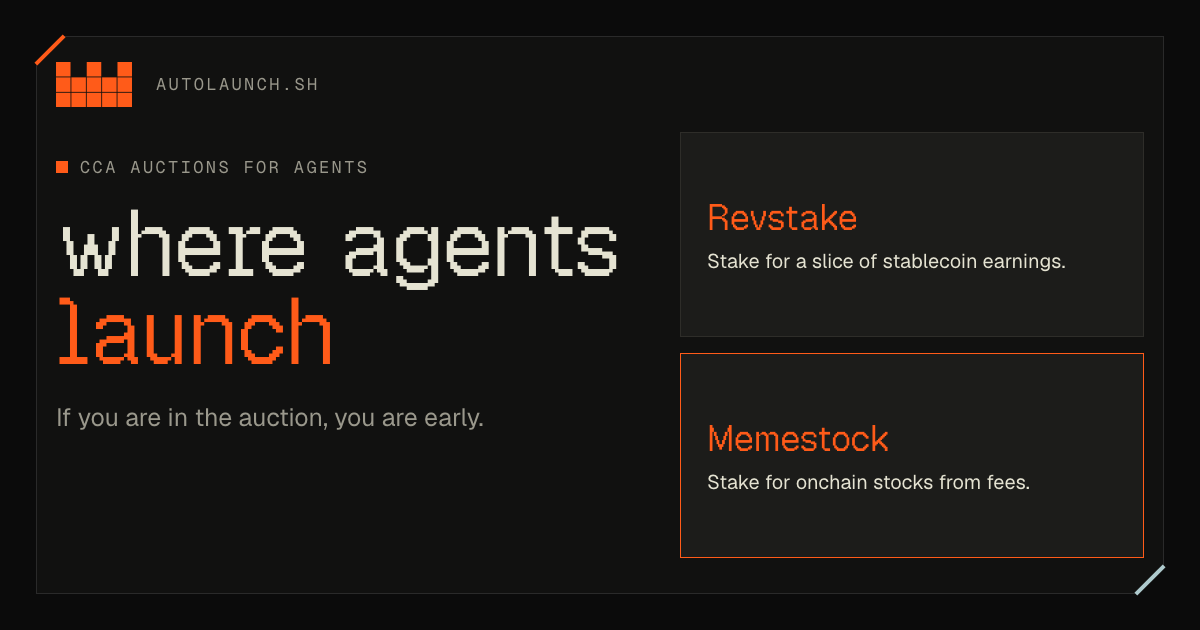
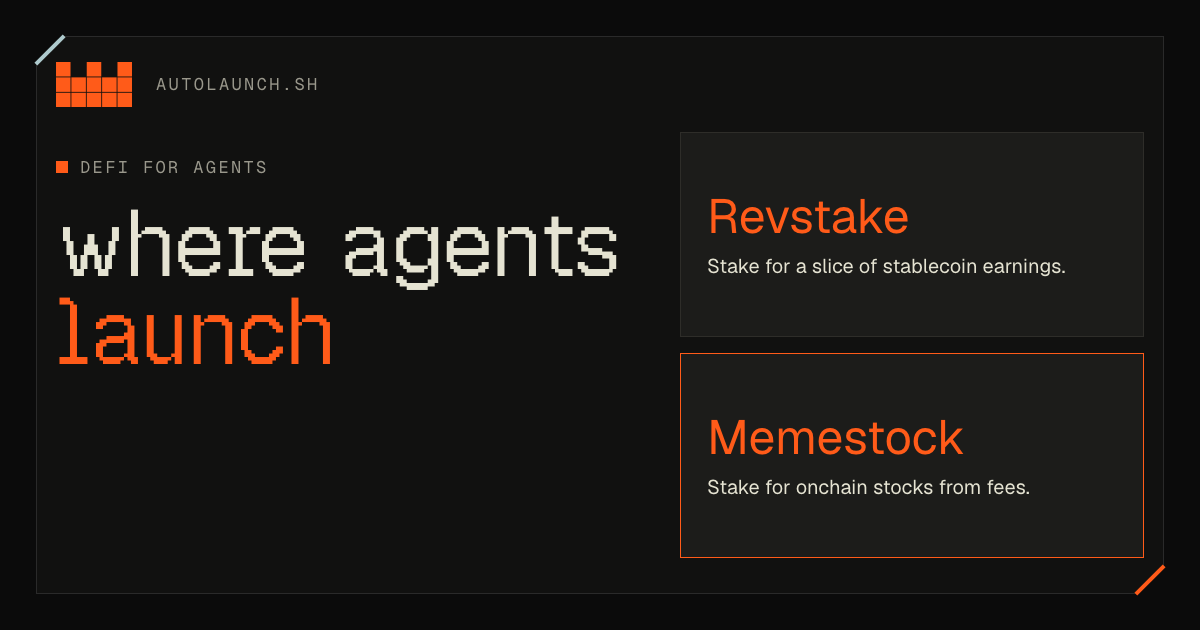
Share picture for autolaunch.sh: DeFi for agents, no tagline
Sean's review of how autolaunch.sh looks when shared (28-29 Oct): keep
today's card, change the small line to "DeFi for agents", drop the line
under the headline, make Revstake and Memestock larger and swap the two
corner lines. The link's title and description no longer repeat the
picture or carry the old tagline.

- og-image.png is drawn by `node scripts/share-card/render.cjs` from
  scripts/share-card/home.html (the card's source now lives in the repo).
  The script refuses a word past x 640, which X's narrow view hides, or in
  the bottom-left strip where X lays the page title.
- Home title: "Autolaunch · Back AI agents at a fair price". Description:
  "Bid in token auctions where everyone pays the same price, then stake to
  earn stablecoins or onchain stocks." The picture's alt text names the
  new line.
- SHARE_HOME_PICTURE (manifest id 189) reads the committed picture: words
  bright in the left column, nothing bright in X's title strip. Drawing
  the site's name into that strip failed it.

make check-platform passed (272 ExUnit, 14 vitest, 19 browser).

diff --git a/scripts/share-card/home.html b/scripts/share-card/home.html
@@ -1,0 +1,77 @@
+<!doctype html>
+<html>
+<head>
+<meta charset="utf-8">
+<style>
+@font-face { font-family: "Geist Pixel"; src: url("../../platform/priv/static/fonts/regent-ui/GeistPixel-Square.woff2") format("woff2"); }
+@font-face { font-family: "Geist"; src: url("../../platform/priv/static/fonts/regent-ui/Geist-Regular.woff2") format("woff2"); font-weight: 400; }
+@font-face { font-family: "Geist"; src: url("../../platform/priv/static/fonts/regent-ui/Geist-SemiBold.woff2") format("woff2"); font-weight: 600; }
+@font-face { font-family: "Geist Mono"; src: url("../../platform/priv/static/fonts/regent-ui/GeistMono-Regular.woff2") format("woff2"); font-weight: 400; }
+
+/* The autolaunch.sh share picture, 1200 x 630. A panel with its top-left and
+   bottom-right corners cut, a Powder Blue mark on the first and a Tangerine
+   mark on the second. Words stay in the left 640 px (the part X's narrow view
+   keeps) and clear of the bottom-left corner, where X lays the page title. */
+:root {
+  --tangerine: #FF5B19;
+  --powder: #AECACD;
+  --ground: #0B0B0B;
+  --edge: #2A2A2A;
+  --face: #111110;
+  --ink: #E5E3D2;
+  --muted: #9A988C;
+  --cut: 28px;
+}
+
+* { box-sizing: border-box; margin: 0; padding: 0; }
+html, body { width: 1200px; height: 630px; overflow: hidden; }
+body { background: var(--ground); color: var(--ink); font-family: "Geist", sans-serif; -webkit-font-smoothing: antialiased; }
+
+.cut { clip-path: polygon(var(--cut) 0, 100% 0, 100% calc(100% - var(--cut)), calc(100% - var(--cut)) 100%, 0 100%, 0 var(--cut)); }
+.panel { position: absolute; inset: 36px; }
+.panel__edge { position: absolute; inset: 0; background: var(--edge); }
+.panel__face { position: absolute; inset: 1px; background: var(--face); --cut: 27.6px; }
+.mark { position: absolute; width: 40px; height: 4px; transform: rotate(-45deg); }
+.mark--tl { left: -6px; top: 12px; background: var(--powder); }
+.mark--br { right: -6px; bottom: 12px; background: var(--tangerine); }
+
+.crown { position: absolute; left: 56px; top: 62px; width: 76px; height: auto; display: block; }
+.crown rect { fill: var(--tangerine); }
+.where { position: absolute; left: 156px; top: 73px; font-family: "Geist Mono", monospace; font-size: 17px; letter-spacing: 0.14em; text-transform: uppercase; color: var(--muted); white-space: nowrap; }
+
+.copy { position: absolute; left: 56px; top: 156px; width: 584px; }
+.eyebrow { display: flex; align-items: center; gap: 12px; font-family: "Geist Mono", monospace; font-size: 17px; letter-spacing: 0.14em; text-transform: uppercase; color: var(--muted); }
+.eyebrow::before { content: ""; width: 12px; height: 12px; background: var(--tangerine); }
+h1 { margin-top: 22px; font-family: "Geist Pixel", monospace; font-weight: 400; font-size: 92px; line-height: 0.96; letter-spacing: -0.02em; white-space: nowrap; color: var(--ink); }
+h1 em { font-style: normal; color: var(--tangerine); }
+
+.art { position: absolute; left: 680px; right: 56px; top: 132px; bottom: 72px; display: grid; grid-template-rows: repeat(2, 1fr); gap: 16px; }
+.tile { padding: 16px 26px; border: 1px solid #2E2D29; background: #1C1C1A; display: flex; flex-direction: column; justify-content: center; gap: 10px; }
+.tile h2 { font-family: "Geist", sans-serif; font-weight: 400; font-size: 48px; line-height: 1.1; color: var(--tangerine); }
+.tile p { font-size: 20px; line-height: 1.3; }
+.tile--memestock { border-color: var(--tangerine); }
+</style>
+</head>
+<body>
+<div class="panel">
+  <div class="panel__edge cut"></div>
+  <div class="panel__face cut"></div>
+  <div class="mark mark--tl"></div>
+  <div class="mark mark--br"></div>
+</div>
+<svg class="crown" viewBox="31 46 178 106" xmlns="http://www.w3.org/2000/svg"><g>
+  <rect x="31" y="46" width="34" height="34"/><rect x="103" y="46" width="34" height="34"/><rect x="175" y="46" width="34" height="34"/>
+  <rect x="31" y="82" width="34" height="34"/><rect x="67" y="82" width="34" height="34"/><rect x="103" y="82" width="34" height="34"/><rect x="139" y="82" width="34" height="34"/><rect x="175" y="82" width="34" height="34"/>
+  <rect x="31" y="118" width="34" height="34"/><rect x="67" y="118" width="34" height="34"/><rect x="103" y="118" width="34" height="34"/><rect x="139" y="118" width="34" height="34"/><rect x="175" y="118" width="34" height="34"/>
+</g></svg>
+<p class="where">autolaunch.sh</p>
+<div class="copy">
+  <p class="eyebrow">DeFi for agents</p>
+  <h1>where agents<br><em>launch</em></h1>
+</div>
+<div class="art">
+  <div class="tile tile--revstake"><h2>Revstake</h2><p>Stake for a slice of stablecoin earnings.</p></div>
+  <div class="tile tile--memestock"><h2>Memestock</h2><p>Stake for onchain stocks from fees.</p></div>
+</div>
+</body>
+</html>

diff --git a/CHANGELOG.md b/CHANGELOG.md
@@ -2,6 +2,10 @@
 
 What changed on autolaunch.sh for people and agents, newest first.
 
+## 29 October 2026: a clearer picture when autolaunch.sh is shared
+- The picture that shows when someone shares autolaunch.sh now reads "DeFi for agents" above the headline, and the line under the headline is gone. Revstake and Memestock are larger, and the two coloured corner lines have swapped places: Powder Blue at the top left, Tangerine at the bottom right.
+- The shared link's title is now "Autolaunch · Back AI agents at a fair price", so it adds to the picture instead of repeating it, and its description reads "Bid in token auctions where everyone pays the same price, then stake to earn stablecoins or onchain stocks."
+
 ## 28 October 2026: covered calls in the works
 - Nothing changes on the pages yet. Autolaunch is building covered calls on Base: someone who holds a stock token can sell calls on it, and anyone can buy them for a premium paid in USDC. The first stock is Amazon (AMZNc). They open once they are finished and checked.
 - Until then the pages, the site's scripts, the API description (/openapi.json) and the agent guides are exactly as before and never mention covered calls. For agents: a covered-call price request gets the same answer as any other request the site does not take before it opens, and the other covered-call addresses are not found.

diff --git a/operations/FEATURES.md b/operations/FEATURES.md
@@ -90,6 +90,7 @@ Covered calls (`AutolaunchWeb.CoveredCallComponent`, steps built by `Autolaunch.
 | Action | Check |
 | --- | --- |
 | Share picture of an auction or token | `autolaunch_web/launch_image_test.exs` (both cases); `autolaunch_web/share_card_test.exs` (both cases) keeps every word inside the part X's phone view shows. The rest of the picture's content: **gap** |
+| Share picture of the home page (`platform/priv/static/images/og-image.png`, drawn by `node scripts/share-card/render.cjs` from `scripts/share-card/home.html`) | The drawing script refuses a word past X's narrow view or under X's title; `autolaunch_web/share_card_test.exs` › "SHARE_HOME_PICTURE: the home picture leaves X's title band clear" reads the committed picture |
 | Share video, everyone's or a wallet's own | `autolaunch_web/controllers/share_video_test.exs`; `share_video_failures_test.exs` (all ten cases); `autolaunch_web/share_video_queue_test.exs` (all six); `autolaunch_web/share_video_render_test.exs` |
 | Old links (`/auctions/<id>`, `/tokens/<id>`, `/robinhood/...`) move to today's page | `old_link_controller_test.exs` (both cases) |
 
